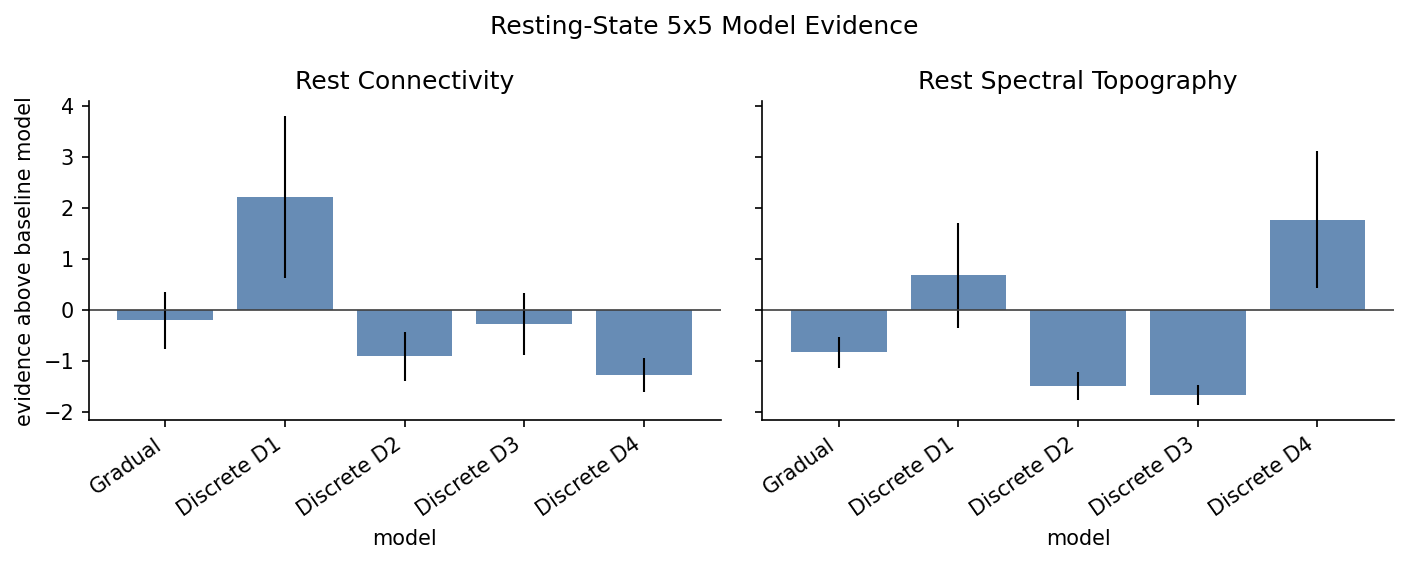
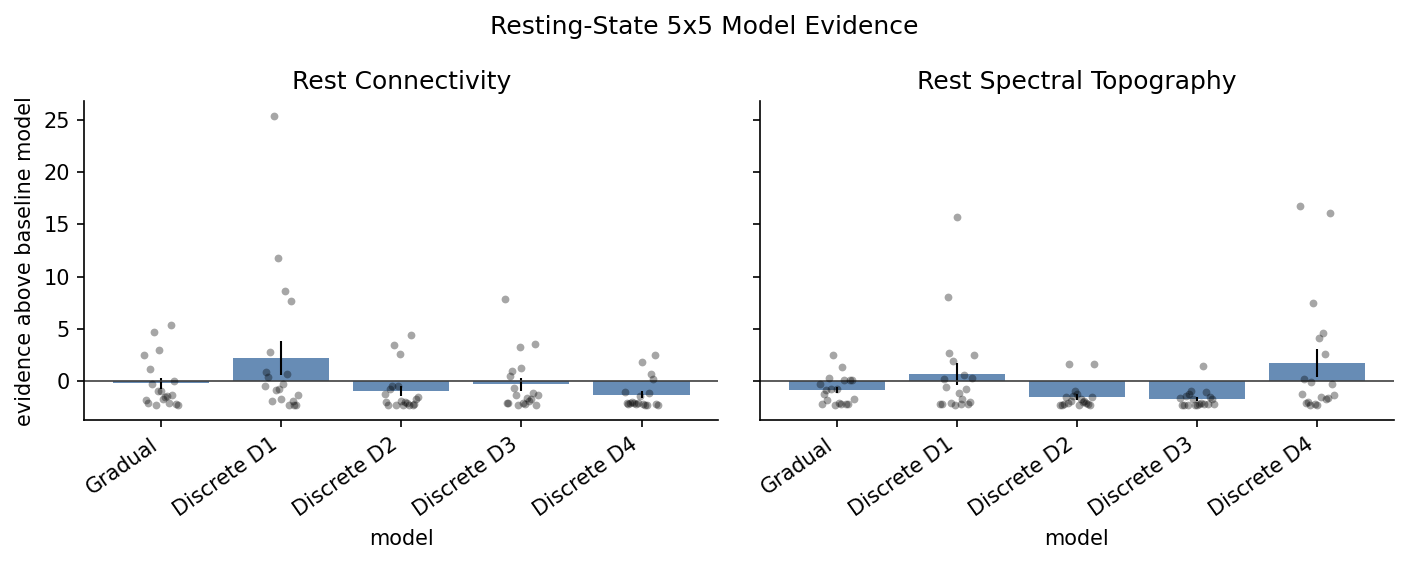
.

diff --git a/code/rest_day_geometry_figure.py b/code/rest_day_geometry_figure.py
@@ -53,12 +53,19 @@ def save_rest_distance_matrices(output_dir, figures_dir):
         g = d[d["feature_kind"] == feature_kind]
         if g.empty:
             raise ValueError(f"No group distances for {feature_kind}")
-        mats.append(distance_matrix(g))
-    vmax = np.nanmax([np.nanmax(mat) for mat in mats])
+        mat = distance_matrix(g)
+        for idx in range(len(DAYS)):
+            mat[idx, idx] = np.nan
+        mats.append(mat)
+    finite_vals = np.concatenate([mat[np.isfinite(mat)] for mat in mats])
+    vmin = float(np.nanmin(finite_vals))
+    vmax = float(np.nanmax(finite_vals))
 
     fig, axes = plt.subplots(1, 2, figsize=(8.2, 3.8), constrained_layout=True)
     for ax, mat, (_feature_kind, title) in zip(axes, mats, panels):
-        im = ax.imshow(mat, cmap="viridis", vmin=0.0, vmax=vmax)
+        cmap = plt.get_cmap("viridis").copy()
+        cmap.set_bad(color="0.88")
+        im = ax.imshow(np.ma.masked_invalid(mat), cmap=cmap, vmin=vmin, vmax=vmax)
         ax.set_title(title)
         ax.set_xticks(range(len(DAYS)))
         ax.set_yticks(range(len(DAYS)))
@@ -66,6 +73,9 @@ def save_rest_distance_matrices(output_dir, figures_dir):
         ax.set_yticklabels([f"D{day}" for day in DAYS])
         for i in range(len(DAYS)):
             for j in range(len(DAYS)):
+                if not np.isfinite(mat[i, j]):
+                    ax.text(j, i, "-", ha="center", va="center", fontsize=9)
+                    continue
                 ax.text(
                     j,
                     i,
@@ -73,7 +83,7 @@ def save_rest_distance_matrices(output_dir, figures_dir):
                     ha="center",
                     va="center",
                     fontsize=8,
-                    color="white" if mat[i, j] > 0.55 * vmax else "black",
+                    color="white" if mat[i, j] > vmin + 0.55 * (vmax - vmin) else "black",
                 )
     cbar = fig.colorbar(im, ax=axes, shrink=0.85)
     cbar.set_label("mean z-Euclidean distance")
@@ -85,8 +95,11 @@ def save_rest_distance_matrices(output_dir, figures_dir):
 
 def save_rest_model_evidence(output_dir, figures_dir):
     d = require_csv(output_dir / "rest_day_geometry_model_summary.csv")
+    s = require_csv(output_dir / "rest_day_geometry_model_subject.csv")
     d = d[d["band_group"] == "all_bands"].copy()
     d = d[d["model_label"] != "Baseline"].copy()
+    s = s[s["band_group"] == "all_bands"].copy()
+    s = s[s["model_label"] != "Baseline"].copy()
     order = ["Gradual", "Discrete D1", "Discrete D2", "Discrete D3", "Discrete D4"]
     panels = [
         ("connectivity", "Rest Connectivity"),
@@ -110,6 +123,25 @@ def save_rest_model_evidence(output_dir, figures_dir):
         x = np.arange(len(order))
         ax.bar(x, vals, color="#4c78a8", alpha=0.85)
         ax.errorbar(x, vals, yerr=errs, fmt="none", color="black", linewidth=1.0)
+        for xi, label in enumerate(order):
+            sub = s[
+                (s["feature_kind"] == feature_kind)
+                & (s["model_label"] == label)
+            ].copy()
+            y = -sub["delta_bic_baseline"].to_numpy(float)
+            y = y[np.isfinite(y)]
+            if len(y) == 0:
+                continue
+            jitter = np.linspace(-0.14, 0.14, len(y))
+            ax.scatter(
+                np.full(len(y), xi) + jitter,
+                y,
+                s=14,
+                color="black",
+                alpha=0.35,
+                linewidths=0,
+                zorder=3,
+            )
         ax.axhline(0, color="0.25", linewidth=0.8)
         ax.set_title(title)
         ax.set_xticks(x)
